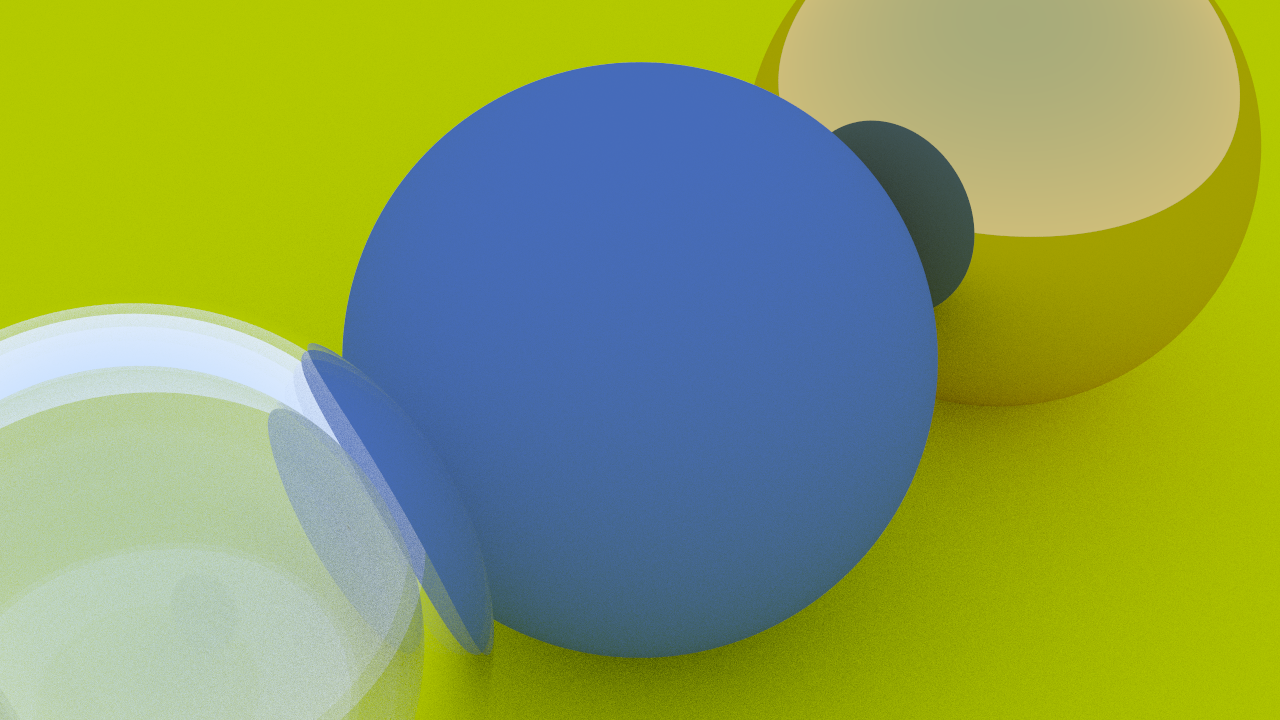
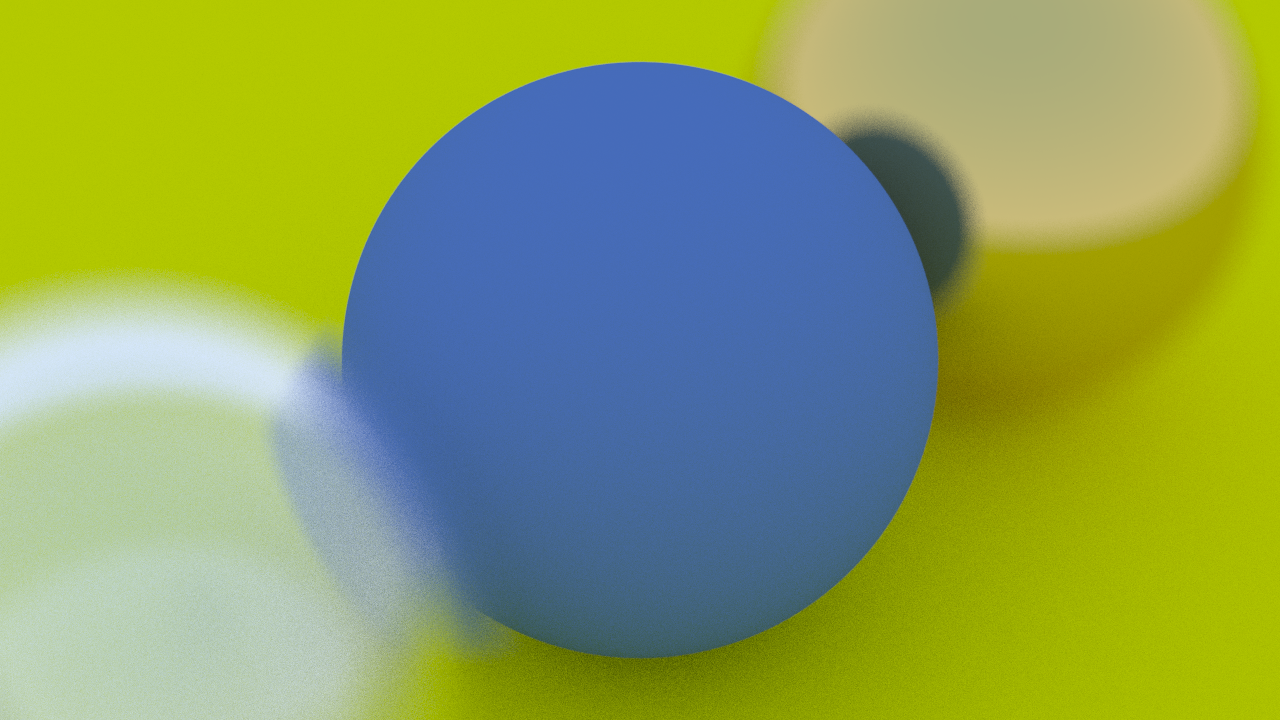
add defocus blur

Changed region(s): [[0.0, 0.3667, 0.4062, 1.0], [0.625, 0.0, 1.0, 0.4278], [0.5625, 0.0, 0.6562, 0.1528]]

diff --git a/src/camera.c b/src/camera.c
@@ -11,6 +11,8 @@ camera_t camera_create(unsigned int image_width, double aspect_ratio, vec3_t loo
   camera_t result;
   result.samples_per_pixel = 100;
   result.max_depth = 50u;
+  result.defocus_angle = 10;
+  result.focus_distance = 3.4;
 
   result.image_width = image_width;
   result.aspect_ratio = aspect_ratio;
@@ -20,11 +22,9 @@ camera_t camera_create(unsigned int image_width, double aspect_ratio, vec3_t loo
   int img_height = image_width / aspect_ratio;
   result.image_height = (img_height < 1) ? 1 : img_height;
 
-
-  double focal_length = vec3_length(vec3_sub(look_from, look_at));
   double theta = DEG_TO_RAD(result.field_of_view);
   double h = tan(theta / 2);
-  double viewport_height = 2.0 * h * focal_length;
+  double viewport_height = 2.0 * h * result.focus_distance;
   double viewport_width = viewport_height * ((double)image_width / result.image_height);
 
   result.w = vec3_normalised(vec3_sub(look_from, look_at));
@@ -38,9 +38,12 @@ camera_t camera_create(unsigned int image_width, double aspect_ratio, vec3_t loo
   result.pixel_delta_v = vec3_div(viewport_v, result.image_height);
 
   vec3_t viewport_upper_left =
-      vec3_sub(vec3_sub(vec3_sub(result.center, vec3_scale(result.w, focal_length)), vec3_div(viewport_u, 2)), vec3_div(viewport_v, 2));
+      vec3_sub(vec3_sub(vec3_sub(result.center, vec3_scale(result.w, result.focus_distance)), vec3_div(viewport_u, 2)), vec3_div(viewport_v, 2));
   result.pixel_upper_left = vec3_add(viewport_upper_left, vec3_scale(vec3_add(result.pixel_delta_u, result.pixel_delta_v), 0.5));
 
+  double defocus_radius = result.focus_distance * tan(DEG_TO_RAD(result.defocus_angle / 2));
+  result.defocus_disk_u = vec3_scale(result.u, defocus_radius);
+  result.defocus_disk_v = vec3_scale(result.v, defocus_radius);
 
   return result;
 }
@@ -104,9 +107,16 @@ ray_t ray_get(camera_t* camera, unsigned int x, unsigned int y) {
   vec3_t rand_pixel = vec3_add(vec3_scale(camera->pixel_delta_u, px), vec3_scale(camera->pixel_delta_v, py));
   vec3_t pixel_sample = vec3_add(pixel_center, rand_pixel);
 
-  vec3_t ray_direction = vec3_sub(pixel_sample, camera->center);
+  vec3_t ray_origin = (camera->defocus_angle <= 0) ? camera->center : camera_defocus_disk_sample(camera);
+  vec3_t ray_direction = vec3_sub(pixel_sample, ray_origin);
 
-  ray_t ray = {camera->center, ray_direction};
+  ray_t ray = {ray_origin, ray_direction};
 
   return ray;
+}
+
+vec3_t camera_defocus_disk_sample(camera_t* camera) {
+  vec3_t p = vec3_random_in_unit_disk();
+  vec3_t result = vec3_add(camera->center, vec3_add(vec3_scale(camera->defocus_disk_u, p.x), vec3_scale(camera->defocus_disk_v, p.y)));
+  return result;
 }

diff --git a/include/camera.h b/include/camera.h
@@ -17,9 +17,14 @@ typedef struct {
   vec3_t u;
   vec3_t v;
   vec3_t w;
+  vec3_t defocus_disk_u;
+  vec3_t defocus_disk_v;
+  double defocus_angle;
+  double focus_distance;
 } camera_t;
 
 camera_t camera_create(unsigned int image_width, double aspect_ratio, vec3_t look_from, vec3_t look_at, vec3_t up, double field_of_view);
 void render(camera_t* camera, hittable_list_t* world, const char* filepath);
 color_t ray_color(ray_t* ray, unsigned int depth, hittable_list_t* world);
 ray_t ray_get(camera_t* camera, unsigned int x, unsigned int y);
+vec3_t camera_defocus_disk_sample(camera_t* camera);

diff --git a/src/vec.c b/src/vec.c
@@ -99,6 +99,15 @@ vec3_t vec3_refract(vec3_t uv, vec3_t normal, double etai_over_etat) {
   return vec3_add(r_perpendicular, r_parallel);
 }
 
+vec3_t vec3_random_in_unit_disk() {
+  while (1) {
+    vec3_t p = vec3_create(rand_double(-1, 1), rand_double(-1, 1), 0);
+    if (vec3_length_squared(p) < 1) {
+      return p;
+    }
+  }
+}
+
 color_t col_create(double r, double g, double b) {
   vec3_t color = {.r = r, .g = g, .b = b};
   return color;

diff --git a/include/vec.h b/include/vec.h
@@ -40,5 +40,6 @@ vec3_t vec3_map(vec3_t a, double (*fn)(double));
 bool vec3_near_zero(vec3_t a);
 vec3_t vec3_reflect(vec3_t v, vec3_t normal);
 vec3_t vec3_refract(vec3_t uv, vec3_t normal, double etai_over_etat);
+vec3_t vec3_random_in_unit_disk();
 
 color_t col_create(double r, double g, double b);
